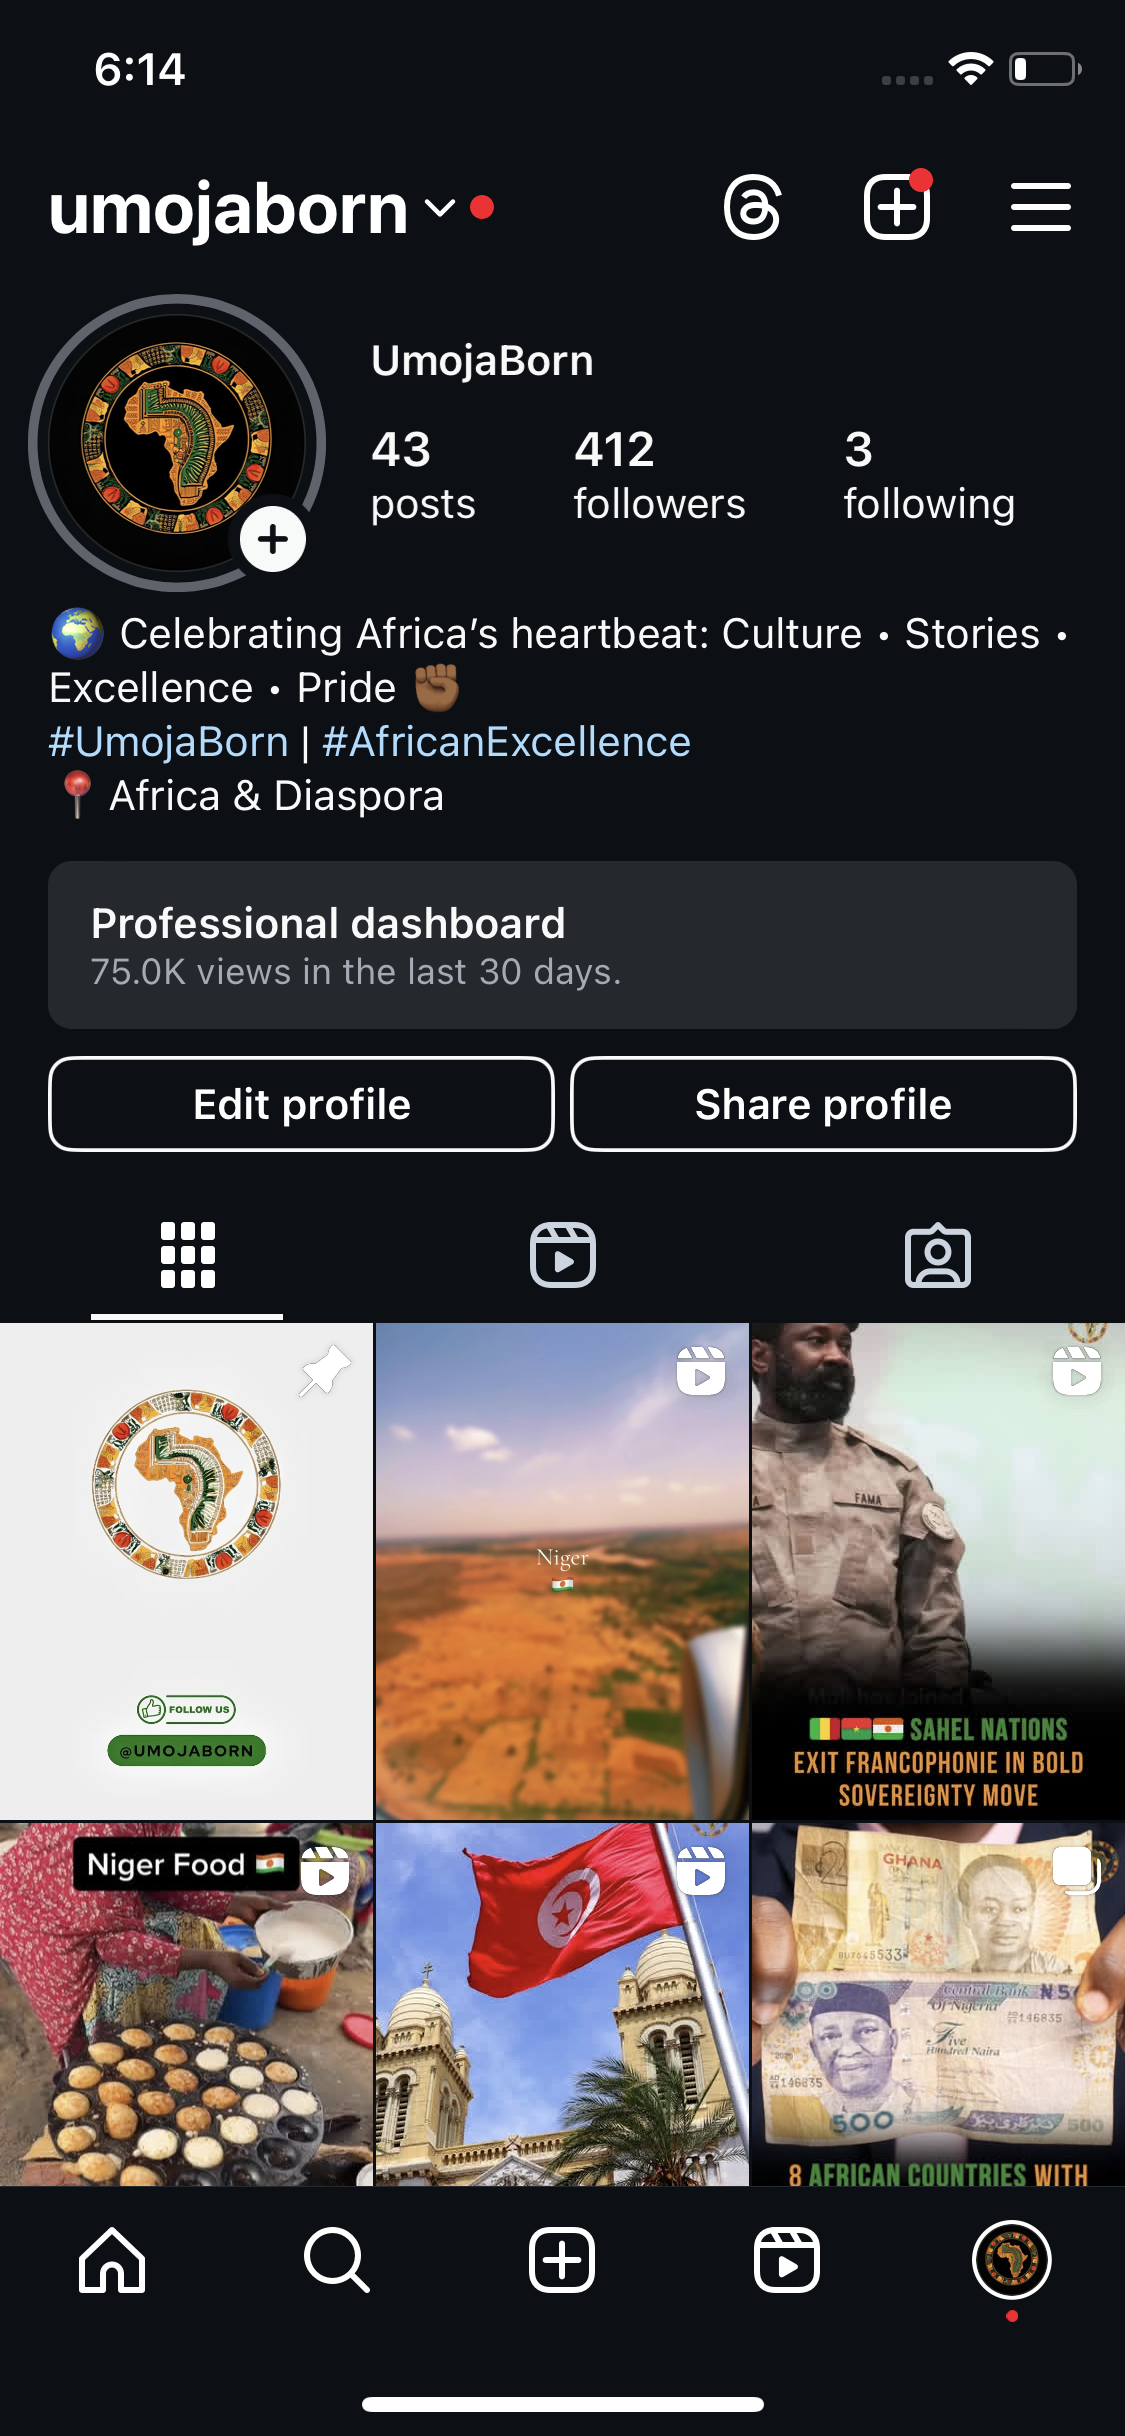
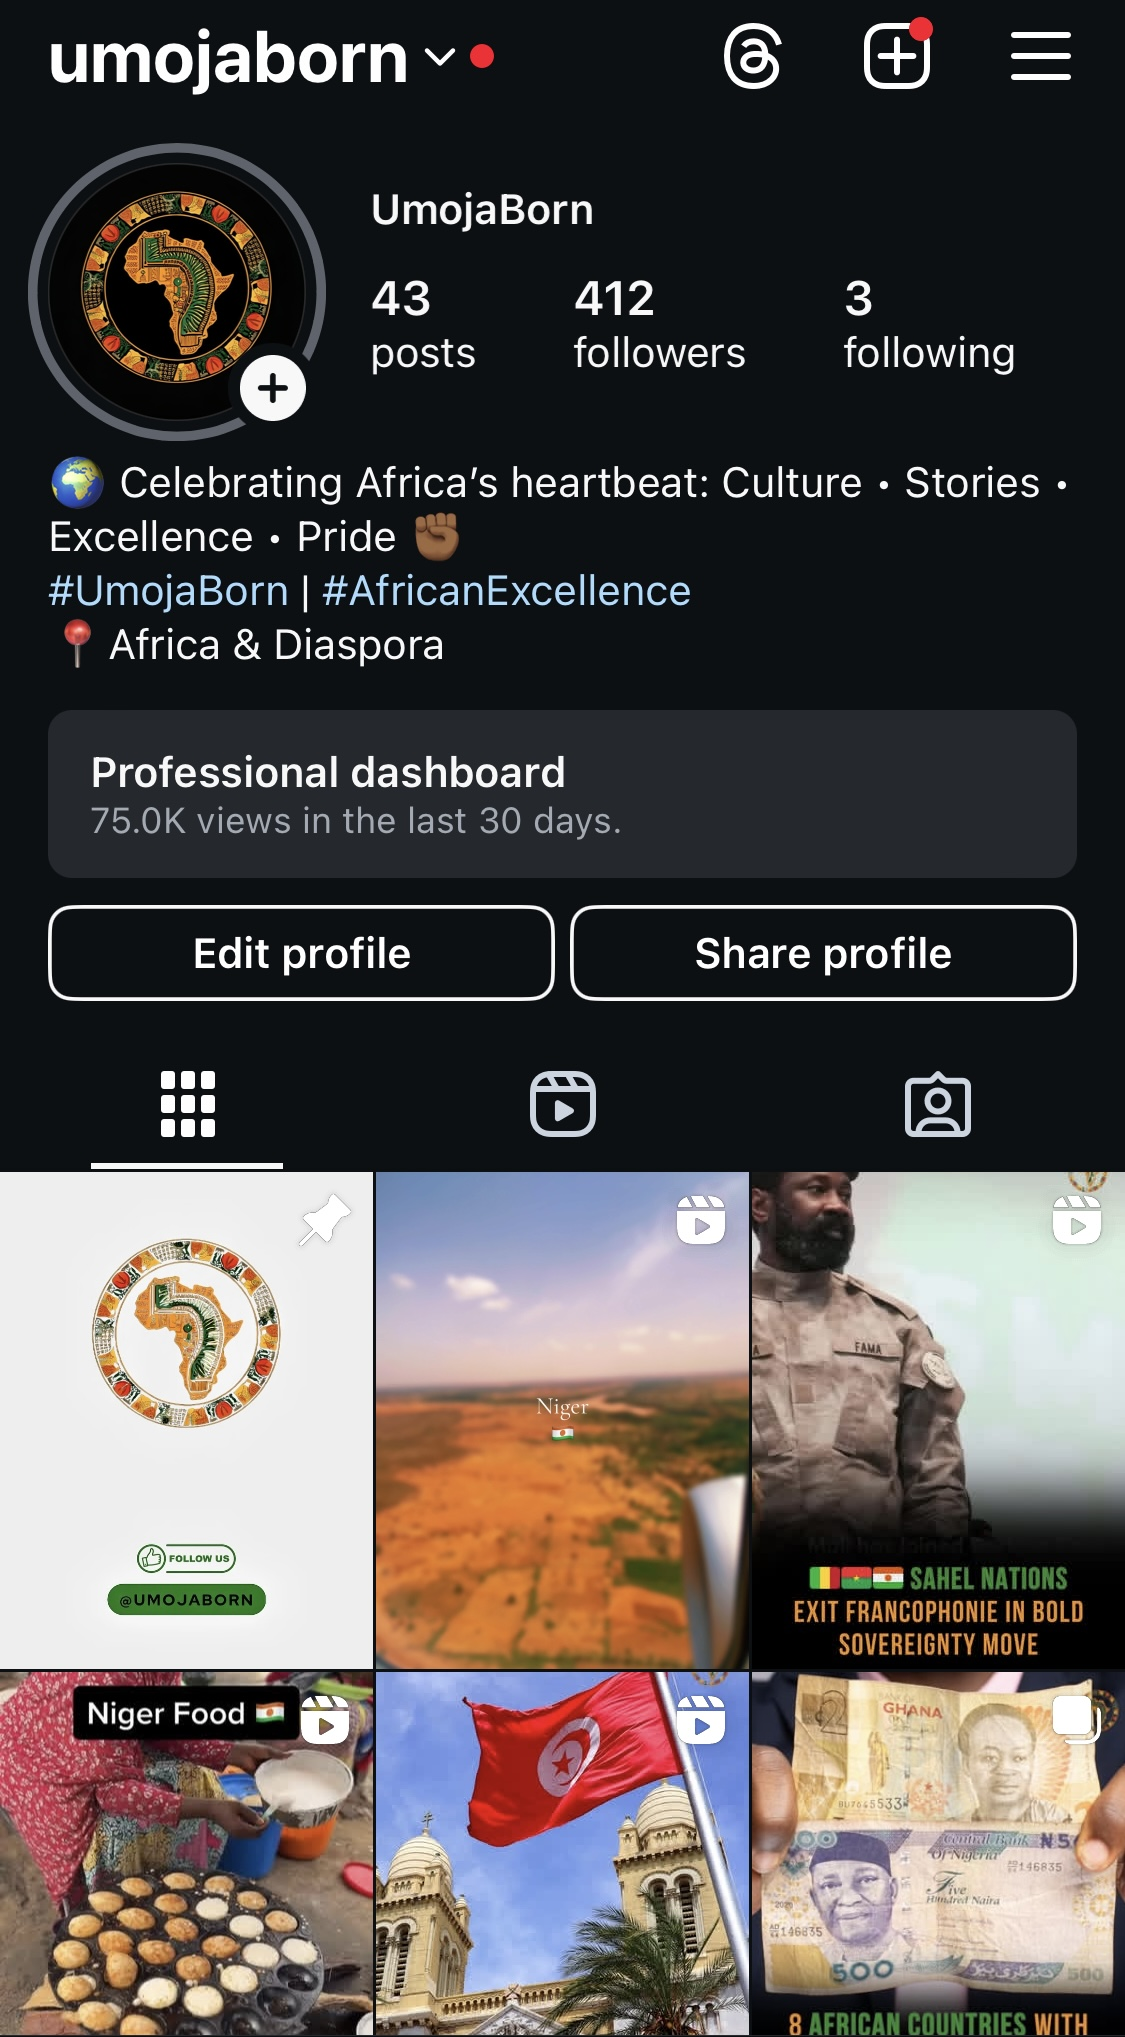
revert

diff --git a/src/UmojabornDetailsPage.tsx b/src/UmojabornDetailsPage.tsx
@@ -63,32 +63,38 @@ const UmojabornDetailsPage = ({ setCurrentPage }: { setCurrentPage: (p: Page) =>
           <div className="grid grid-cols-1 md:grid-cols-2 gap-8 mb-16">
             {/* Before */}
             <div className="text-center">
-              <motion.img
-                src={'/omo/ins.PNG'}
-                alt="Umojaborn Instagram Before"
-                className="w-full h-auto rounded-3xl shadow-lg border border-gray-100"
-                initial={{ opacity: 0, y: 20 }}
-                whileInView={{ opacity: 1, y: 0 }}
-                viewport={{ once: true }}
-                transition={{ duration: 0.5 }}
-              />
-              <div className="mt-4 inline-block bg-gray-200 text-gray-800 px-4 py-2 rounded-full font-bold">
+              <div className="mb-4 inline-block bg-gray-200 text-gray-800 px-6 py-2 rounded-full font-bold uppercase tracking-wider text-xs shadow-sm">
                 Before
+              </div>
+              <div className="overflow-hidden rounded-3xl shadow-lg border border-gray-100">
+                <motion.img
+                  src={'/omo/ins.PNG'}
+                  alt="Umojaborn Instagram Before"
+                  className="w-full h-auto"
+                  style={{ clipPath: 'inset(6% 0 0 0)', marginTop: '-6%' }}
+                  initial={{ opacity: 0, y: 20 }}
+                  whileInView={{ opacity: 1, y: 0 }}
+                  viewport={{ once: true }}
+                  transition={{ duration: 0.5 }}
+                />
               </div>
             </div>
             {/* After */}
             <div className="text-center">
-              <motion.img
-                src={'/omo/ins1.PNG'}
-                alt="Umojaborn Instagram After"
-                className="w-full h-auto rounded-3xl shadow-lg border border-gray-100"
-                initial={{ opacity: 0, y: 20 }}
-                whileInView={{ opacity: 1, y: 0 }}
-                viewport={{ once: true }}
-                transition={{ duration: 0.5, delay: 0.2 }}
-              />
-              <div className="mt-4 inline-block bg-brand-blue text-white px-4 py-2 rounded-full font-bold">
+              <div className="mb-4 inline-block bg-brand-blue text-white px-6 py-2 rounded-full font-bold uppercase tracking-wider text-xs shadow-sm">
                 After
+              </div>
+              <div className="overflow-hidden rounded-3xl shadow-lg border border-gray-100">
+                <motion.img
+                  src={'/omo/ins1.PNG'}
+                  alt="Umojaborn Instagram After"
+                  className="w-full h-auto"
+                  style={{ clipPath: 'inset(6% 0 0 0)', marginTop: '-6%' }}
+                  initial={{ opacity: 0, y: 20 }}
+                  whileInView={{ opacity: 1, y: 0 }}
+                  viewport={{ once: true }}
+                  transition={{ duration: 0.5, delay: 0.2 }}
+                />
               </div>
             </div>
           </div>
